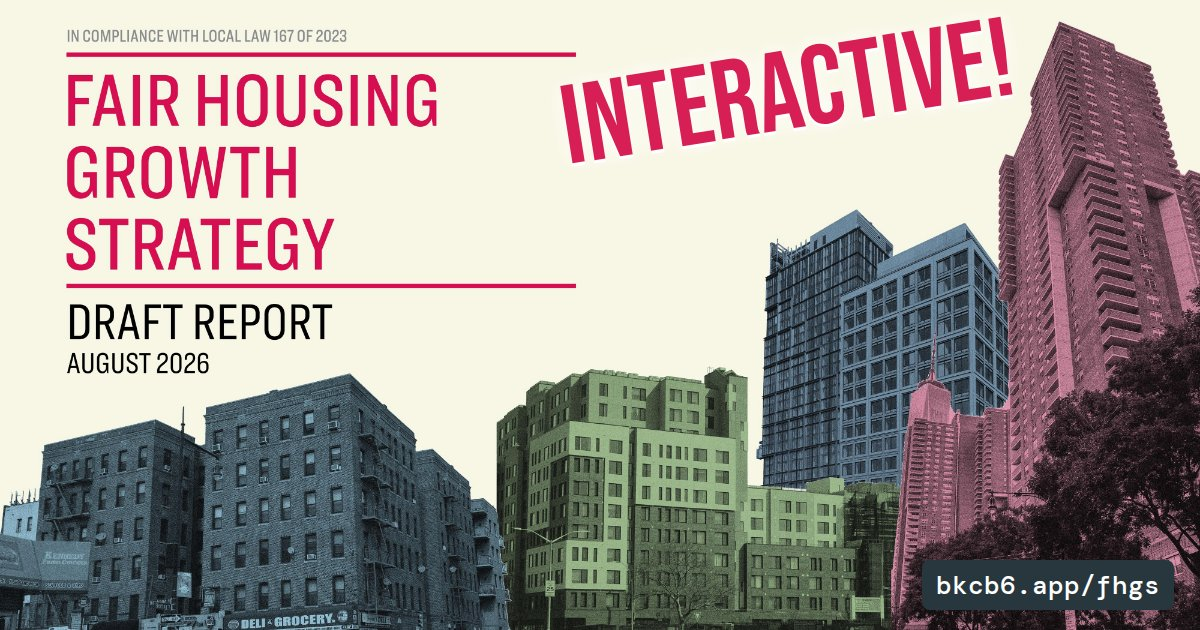
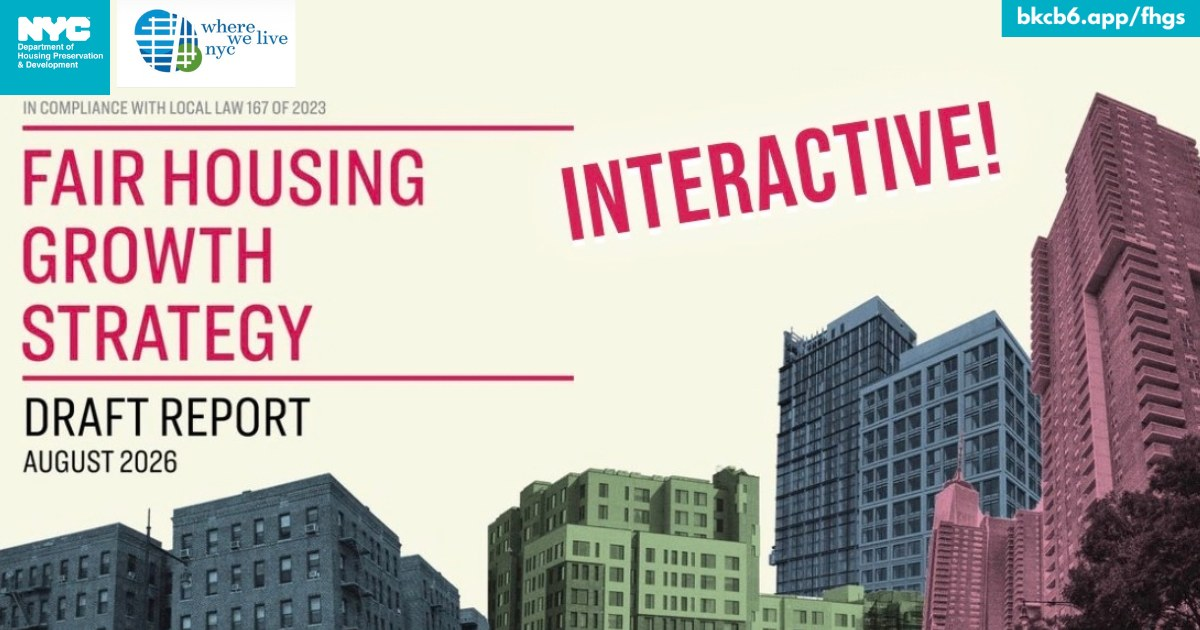
fhgs: Read the full report; new OG image (sw cb6-v1780)
Claude-Session: https://claude.ai/code/session_01PcVHjd2aS2RZ8sEqbmtSCF

diff --git a/fhgs/index.html b/fhgs/index.html
@@ -8,11 +8,11 @@
 <meta property="og:title" content="Fair Housing Growth Strategy: Draft Report">
 <meta property="og:description" content="HPD and DCP&rsquo;s first Fair Housing Growth Strategy, searchable: 700,000 homes needed by 2035, 350,000 by 2030, the 2030 target for all 59 community districts on a map, and the 18 equity strategies.">
 <meta property="og:url" content="https://bkcb6.app/fhgs/">
-<meta property="og:image" content="https://bkcb6.app/og-fhgs.jpg">
+<meta property="og:image" content="https://bkcb6.app/og-fhgs.jpg?v=2">
 <meta property="og:image:width" content="1200"><meta property="og:image:height" content="630">
 <meta property="og:image:alt" content="Fair Housing Growth Strategy Draft Report, August 2026, interactive at bkcb6.app/fhgs">
 <meta name="twitter:card" content="summary_large_image">
-<meta name="twitter:image" content="https://bkcb6.app/og-fhgs.jpg">
+<meta name="twitter:image" content="https://bkcb6.app/og-fhgs.jpg?v=2">
 <title>Fair Housing Growth Strategy &mdash; bkcb6.app</title>
 <link rel="preconnect" href="https://fonts.googleapis.com">
 <link rel="preconnect" href="https://fonts.gstatic.com" crossorigin>
@@ -264,7 +264,7 @@ table.tt{border-collapse:collapse;width:100%;min-width:760px;font-size:.78rem}
   </div>
 
   <div class="btnrow">
-    <button class="btn solid" type="button" data-open-page="1">Read it page by page</button>
+    <button class="btn solid" type="button" data-open-page="1">Read the full report</button>
     <a class="btn" href="#finder">Find your district&rsquo;s target</a>
     <a class="btn" href="#targets">All 59 targets</a>
     <a class="btn" href="#cb6">CB6&rsquo;s target</a>
@@ -397,7 +397,7 @@ function render(){
     h+='</details>';
   });
   // toc
-  h+='<div class="sec" id="contents" style="margin-top:14px"><h2>Read it page by page</h2><div class="lede">All '+NPAGES+' pages. Pick one to open the page viewer.</div></div><div class="toc" id="toc"></div>';
+  h+='<div class="sec" id="contents" style="margin-top:14px"><h2>Read the full report</h2><div class="lede">All '+NPAGES+' pages. Pick one to open the page viewer.</div></div><div class="toc" id="toc"></div>';
   $('app').innerHTML=h;
   renderBK(); renderTOC(); renderChips(); renderTable(); initMap();
 }

diff --git a/sw.js b/sw.js
@@ -1,5 +1,5 @@
 // CB6 & Beyond — Service Worker
-const CACHE_VERSION = 'cb6-v1779';
+const CACHE_VERSION = 'cb6-v1780';
 const CORE_ASSETS = [
   '/',
   '/index.html',
